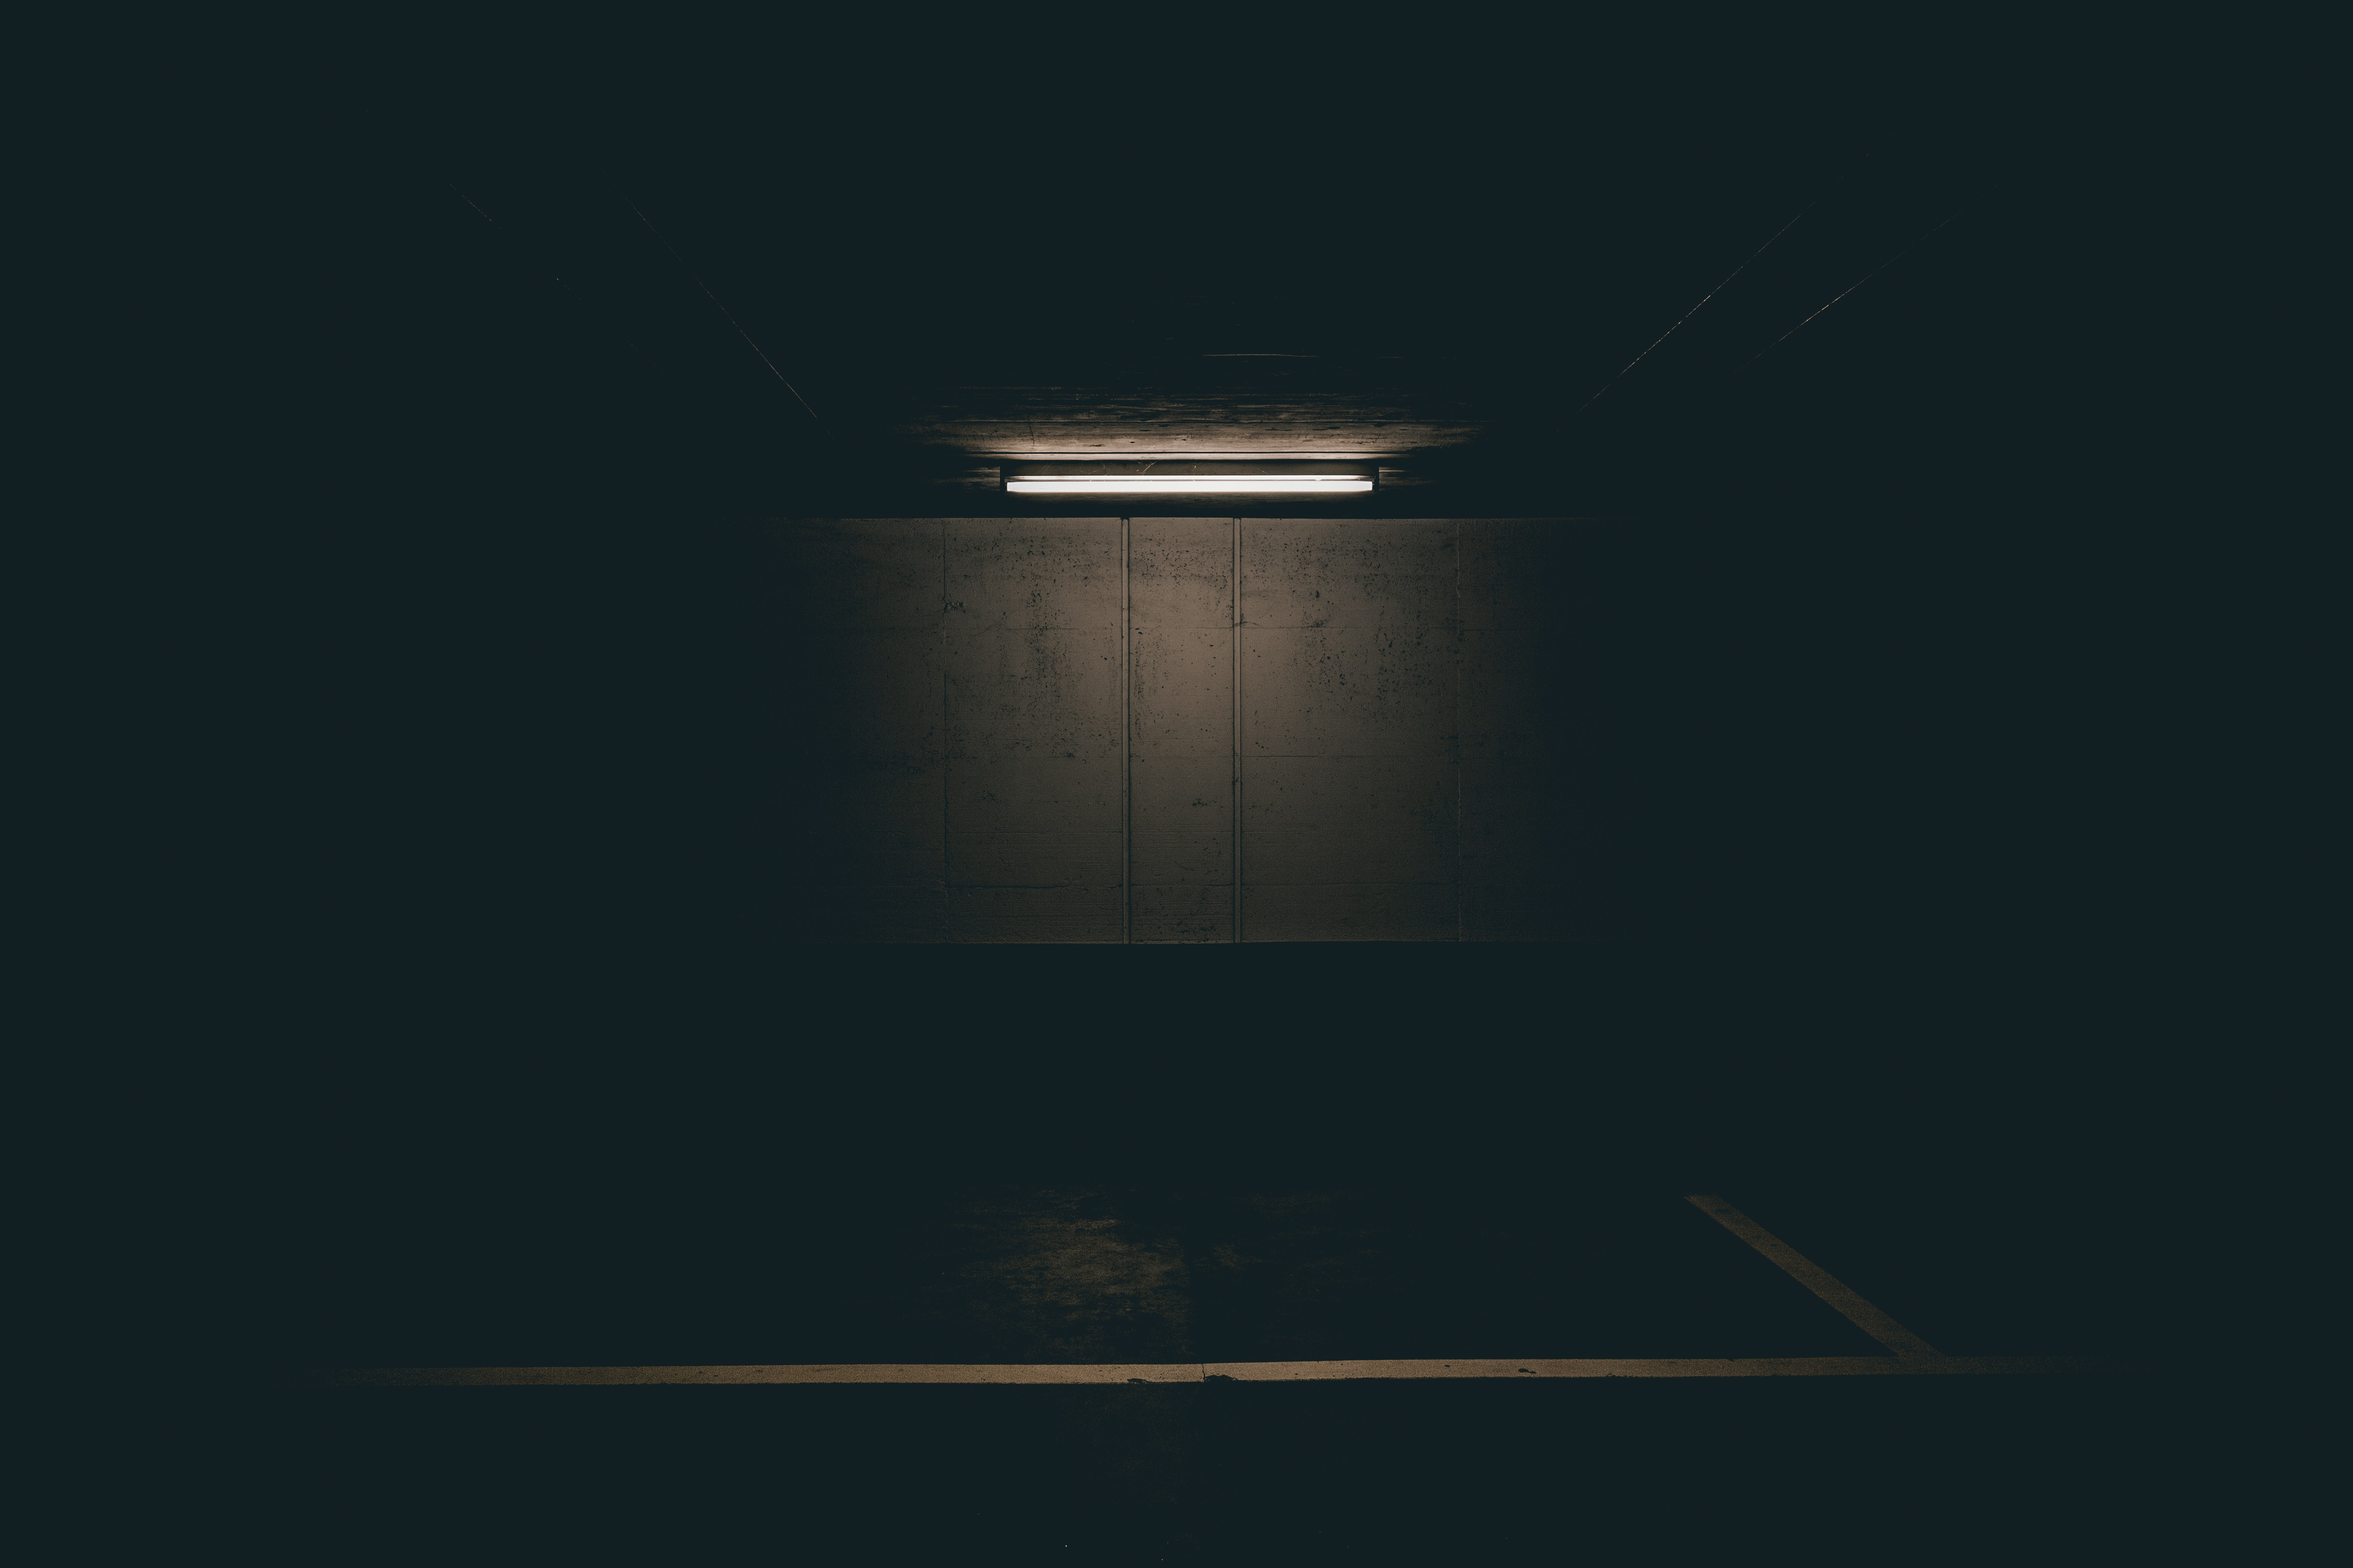
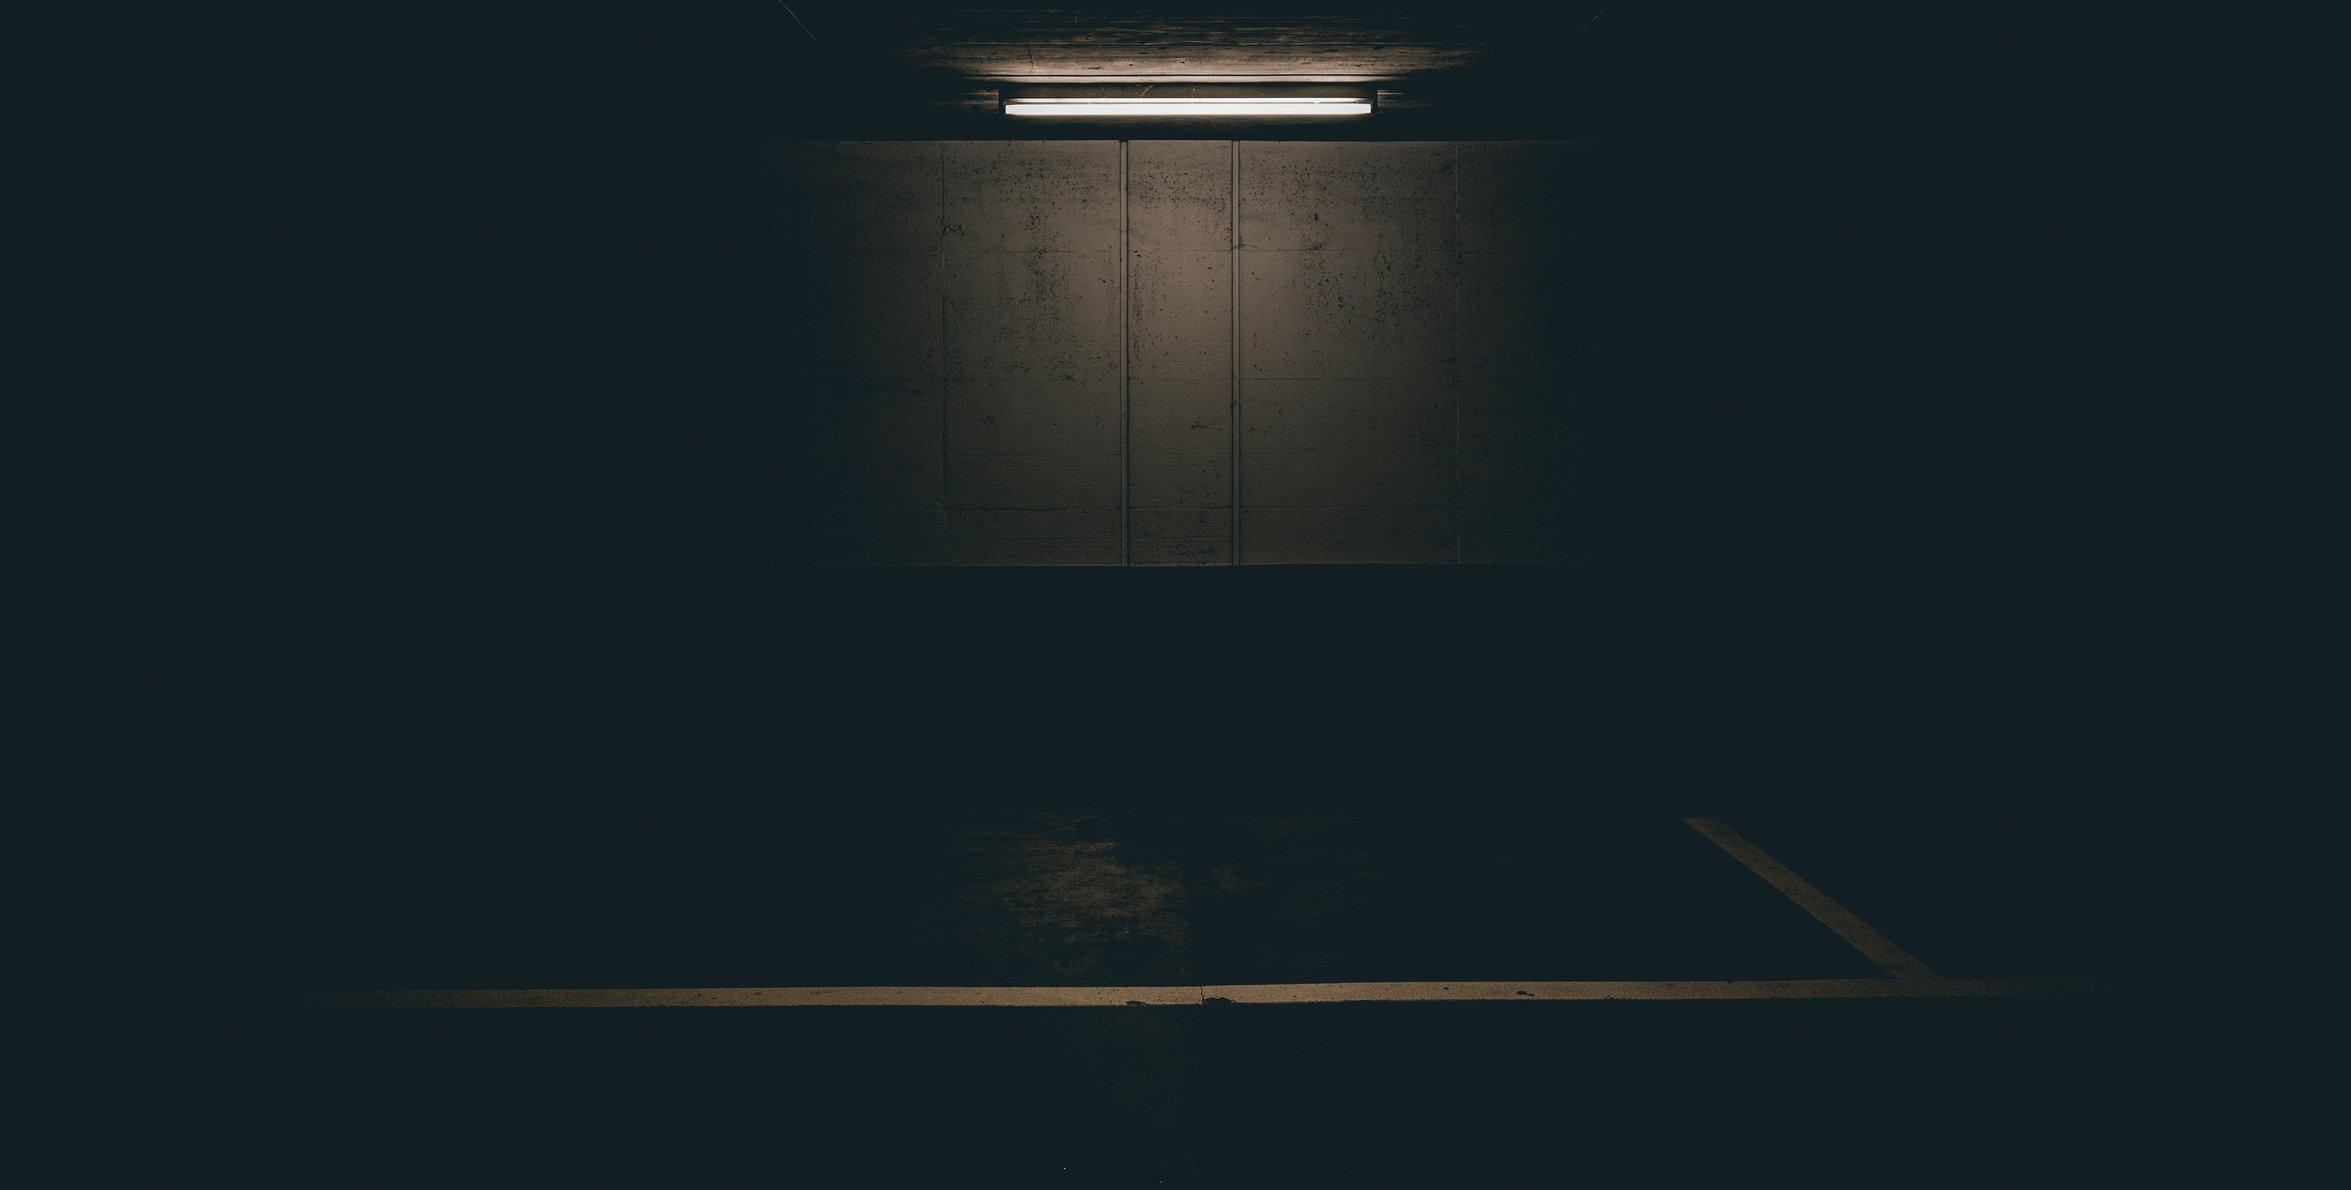
um commit não tão inutil pra arrumar bg e texto

Changed region(s): [[0.3732, 0.0312, 0.622, 0.6244], [0.2177, 0.718, 0.7774, 0.9053], [0.7464, 0.718, 0.7774, 0.7492]]

diff --git a/assets/css/main.css b/assets/css/main.css
@@ -81,10 +81,10 @@ table {
 	 	background: rgba(20, 20, 20,1);
 		background-image: url('../../images/bg.jpg');
 	    background-size: cover;
-	    background-position: center -230px;
+	    background-position: top center;
 	    background-attachment: fixed;
  	}
-
+/*
 	 	@media screen and (max-width: 1280px) {
 	 		body {
 		    	background-position: center -180px;
@@ -96,7 +96,7 @@ table {
 		    	background-position: center -140px;
 	 		}
 	 	}
-
+*/
 	 	@media screen and (max-width: 480px) {
 	 		html, body {
 	 			min-width: 320px;

diff --git a/index.html b/index.html
@@ -21,7 +21,7 @@
 		<hr>
 
 		<p class="subtitulo-topo">
-			Sou apaixonado pela beleza do design e pela complexidade dos códigos. Graças a isso, me tornei um aprendiz da arte e da programação. 
+			Sou apaixonado pela complexidade dos códigos e pela beleza da arte. Graças a isso, me tornei um aprendiz insaciável da programação e do design. 
 		</p>
 		
 		
